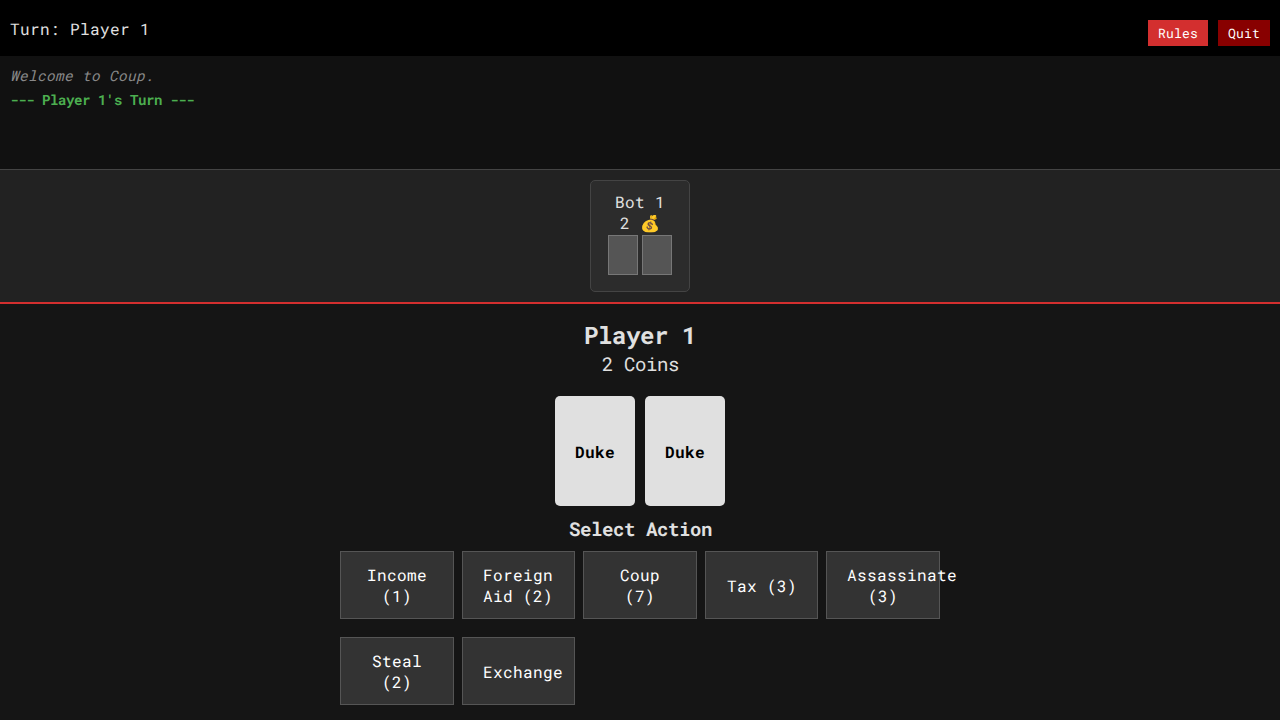
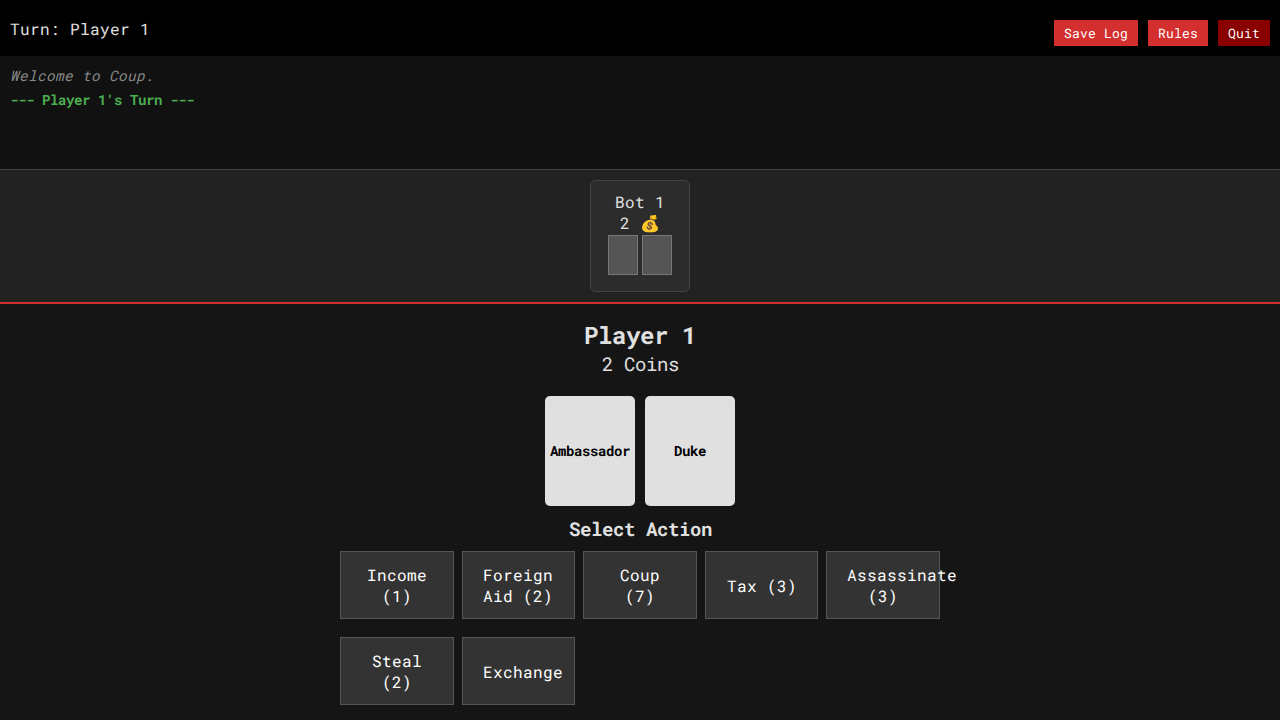
Fix UI issues, add log download, and improve game end messaging
- Fix 'Ambassador' button/card text overflow in `.player-card`.
- Add 'Save Log' button to download game logs as .txt.
- Update Game Over message to explicitly state 'YOU WON' or 'YOU LOST'.

Changed region(s): [[0.4062, 0.55, 0.5938, 0.7028], [0.8125, 0.0306, 0.9062, 0.0611]]

diff --git a/script.js b/script.js
@@ -300,14 +300,6 @@ async function killInfluence(p) {
             await showMessage("Eliminated!", `${p.name} lost their last card: ${p.cards[aliveIndices[0]].role}`);
             p.loseCard(aliveIndices[0]);
         } else {
-            // Let them see the log before prompting
-            // await showMessage("Challenge Lost!", "Choose a card to lose."); // Optional, but let's stick to prompt for now as it wasn't the main complaint.
-            // But requirement 4 says "Player 1 dies... needs to observe".
-            // If they have 2 cards, they don't die yet. So standard prompt is ok?
-            // "Before he was assassinated the player needs to observe why he was dead."
-            // This applies when they are about to be ELIMINATED (die).
-            // If they have 2 cards, they are not dying.
-            // So prompt is fine.
             let choice = prompt(`${p.name} lost a challenge! Choose card to lose:\n1. ${p.cards[0].role}\n2. ${p.cards[1].role}`);
             if (choice === '2' && !p.cards[1].dead) p.loseCard(1);
             else p.loseCard(0);
@@ -355,8 +347,20 @@ async function applyEffect() {
 function nextTurn() {
     const alive = gameState.players.filter(p => p.alive);
     if (alive.length === 1) {
-        showMessage("Game Over", `${alive[0].name} WINS!`);
-        // Do not reload. User can close message and view logs.
+        const winner = alive[0];
+        const human = gameState.players.find(p => !p.isAI);
+
+        let msg = `${winner.name} WINS!`;
+        if (human) {
+            if (winner.id === human.id) {
+                msg = "YOU WON! " + msg;
+            } else {
+                msg = "YOU LOST! " + msg;
+            }
+        }
+
+        log(`GAME OVER. ${msg}`, 'important');
+        showMessage("Game Over", msg);
         return;
     }
 
@@ -389,6 +393,20 @@ function showMessage(title, text) {
 
 function closeMessage() {
     document.getElementById('message-modal').classList.add('hidden');
+}
+
+function downloadLog() {
+    const entries = document.querySelectorAll('.log-entry');
+    let text = "";
+    entries.forEach(e => text += e.innerText + "\n");
+
+    const blob = new Blob([text], { type: 'text/plain' });
+    const url = URL.createObjectURL(blob);
+    const a = document.createElement('a');
+    a.href = url;
+    a.download = `coup_log_${new Date().getTime()}.txt`;
+    a.click();
+    URL.revokeObjectURL(url);
 }
 
 function aiShouldChallenge(ai, actionObj) {

diff --git a/style.css b/style.css
@@ -48,7 +48,24 @@ button.red { background: #800; }
 #player-area { background: #151515; padding: 15px; border-top: 2px solid var(--accent); min-height: 300px; display: flex; flex-direction: column; align-items: center; }
 .coins-display { font-size: 1.2rem; margin-bottom: 10px; }
 .cards-container { display: flex; justify-content: center; gap: 10px; margin: 10px 0; }
-.player-card { width: 80px; height: 110px; background: #e0e0e0; color: #000; display: flex; flex-direction: column; justify-content: center; align-items: center; border-radius: 5px; font-weight: bold; cursor: pointer; border: 3px solid transparent; }
+.player-card {
+    width: 90px;
+    height: 110px;
+    background: #e0e0e0;
+    color: #000;
+    display: flex;
+    flex-direction: column;
+    justify-content: center;
+    align-items: center;
+    border-radius: 5px;
+    font-weight: bold;
+    cursor: pointer;
+    border: 3px solid transparent;
+    font-size: 0.85rem;
+    word-break: break-all;
+    text-align: center;
+    overflow: hidden;
+}
 .player-card.dead { opacity: 0.5; text-decoration: line-through; background: #555; }
 
 /* ACTIONS & REACTION */

diff --git a/index.html b/index.html
@@ -57,6 +57,7 @@
         <div class="game-header">
             <div id="turn-indicator">Turn: Player 1</div>
             <div>
+                <button class="small-btn" onclick="downloadLog()">Save Log</button>
                 <button class="small-btn" onclick="toggleRules()">Rules</button>
                 <button class="small-btn red" onclick="location.reload()">Quit</button>
             </div>
